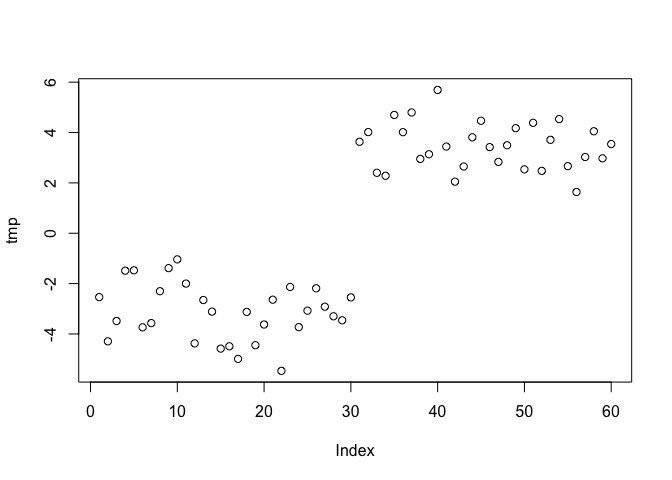
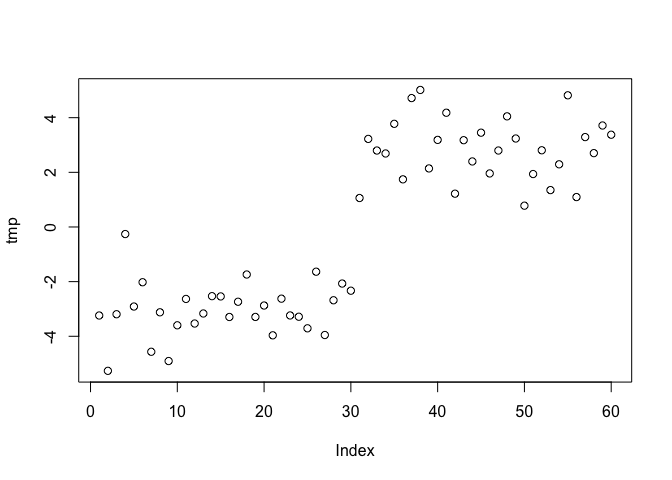
add

diff --git a/Class 9/Class09.md b/Class 9/Class09.md
@@ -35,16 +35,16 @@ km
     ## 
     ## Cluster means:
     ##           x          
-    ## 1 -3.138198  3.450050
-    ## 2  3.450050 -3.138198
+    ## 1 -3.030604  2.832754
+    ## 2  2.832754 -3.030604
     ## 
     ## Clustering vector:
     ##  [1] 1 1 1 1 1 1 1 1 1 1 1 1 1 1 1 1 1 1 1 1 1 1 1 1 1 1 1 1 1 1 2 2 2 2 2 2 2 2
     ## [39] 2 2 2 2 2 2 2 2 2 2 2 2 2 2 2 2 2 2 2 2 2 2
     ## 
     ## Within cluster sum of squares by cluster:
-    ## [1] 61.95328 61.95328
-    ##  (between_SS / total_SS =  91.3 %)
+    ## [1] 66.34119 66.34119
+    ##  (between_SS / total_SS =  88.6 %)
     ## 
     ## Available components:
     ## 
@@ -90,8 +90,8 @@ km$centers
 ```
 
     ##           x          
-    ## 1 -3.138198  3.450050
-    ## 2  3.450050 -3.138198
+    ## 1 -3.030604  2.832754
+    ## 2  2.832754 -3.030604
 
 ``` r
 km$cluster
@@ -127,8 +127,8 @@ You can also ask `cutree()`for the `k` number of groups that you
 cutree(hc,k=5)
 ```
 
-    ##  [1] 1 1 1 2 2 1 1 1 2 2 2 1 1 1 1 1 1 1 1 1 2 1 2 1 1 2 1 1 1 1 3 3 3 3 4 3 3 5
-    ## [39] 3 4 3 3 3 3 3 3 3 3 3 5 4 5 3 3 3 5 5 3 3 3
+    ##  [1] 1 1 1 2 1 2 1 1 1 1 1 1 2 1 1 1 1 2 1 2 1 1 2 2 1 2 1 1 2 1 3 4 3 3 4 3 4 4
+    ## [39] 3 3 4 3 4 3 3 3 3 4 3 3 3 5 3 5 4 3 4 3 5 3
 
 ## Practice PCA analysis
 
